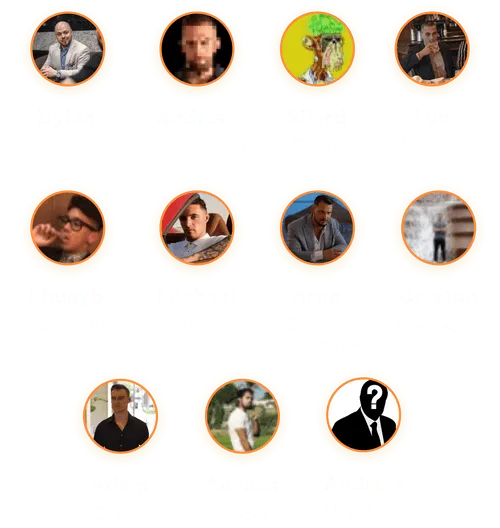
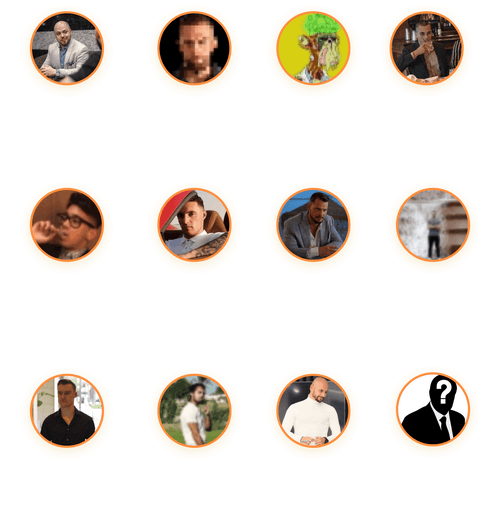
Updated new skills card

diff --git a/index.html b/index.html
@@ -1,4 +1,4 @@
-<!DOCTYPE html><!--  Last Published: Wed Jun 07 2023 19:41:06 GMT+0000 (Coordinated Universal Time)  -->
+<!DOCTYPE html><!--  Last Published: Thu Jun 08 2023 15:16:07 GMT+0000 (Coordinated Universal Time)  -->
 <html data-wf-page="64680f89ffc502a63b8e9d6e" data-wf-site="64680f89ffc502a63b8e9d79">
 <head>
   <meta charset="utf-8">
@@ -19,17 +19,16 @@
   <style>@media (min-width:992px) {html.w-mod-js:not(.w-mod-ix) [data-w-id="18512e3c-39b7-8bab-abb9-2a5bc393fccc"] {opacity:0;}html.w-mod-js:not(.w-mod-ix) [data-w-id="945462b5-1a4d-e19c-20e4-a08d8ec7f4ef"] {opacity:0;}html.w-mod-js:not(.w-mod-ix) [data-w-id="31d968b6-9a69-3ba9-d6d8-b110b56b07cc"] {opacity:0;}html.w-mod-js:not(.w-mod-ix) [data-w-id="12296b64-3bdd-ae1d-ec60-e9494776b848"] {opacity:0;}html.w-mod-js:not(.w-mod-ix) [data-w-id="33ba81fa-bc93-d521-ee83-b04d6ccc260a"] {opacity:0;}html.w-mod-js:not(.w-mod-ix) [data-w-id="00f6bff1-7e71-fcb1-a781-228aad06e1a4"] {opacity:0;}html.w-mod-js:not(.w-mod-ix) [data-w-id="7951d949-64a1-f551-5bcc-421f48fbfda3"] {opacity:0;}}@media (max-width:991px) and (min-width:768px) {html.w-mod-js:not(.w-mod-ix) [data-w-id="18512e3c-39b7-8bab-abb9-2a5bc393fccc"] {opacity:0;}html.w-mod-js:not(.w-mod-ix) [data-w-id="945462b5-1a4d-e19c-20e4-a08d8ec7f4ef"] {opacity:0;}html.w-mod-js:not(.w-mod-ix) [data-w-id="31d968b6-9a69-3ba9-d6d8-b110b56b07cc"] {opacity:0;}html.w-mod-js:not(.w-mod-ix) [data-w-id="12296b64-3bdd-ae1d-ec60-e9494776b848"] {opacity:0;}html.w-mod-js:not(.w-mod-ix) [data-w-id="33ba81fa-bc93-d521-ee83-b04d6ccc260a"] {opacity:0;}html.w-mod-js:not(.w-mod-ix) [data-w-id="00f6bff1-7e71-fcb1-a781-228aad06e1a4"] {opacity:0;}html.w-mod-js:not(.w-mod-ix) [data-w-id="7951d949-64a1-f551-5bcc-421f48fbfda3"] {opacity:0;}}</style>
   <script type="text/javascript">!function(o,c){var n=c.documentElement,t=" w-mod-";n.className+=t+"js",("ontouchstart"in o||o.DocumentTouch&&c instanceof DocumentTouch)&&(n.className+=t+"touch")}(window,document);</script>
   <link href="images/favicon.png" rel="shortcut icon" type="image/x-icon">
-  <link href="images/webclip.png" rel="apple-touch-icon"><!--  [Attributes by Finsweet] CMS Load  -->
+  <link href="images/webclip.png" rel="apple-touch-icon">
   <script async="" src="https://cdn.jsdelivr.net/npm/@finsweet/attributes-cmsload@1/cmsload.js"></script>
-  <script src="https://cdn.jsdelivr.net/npm/alertifyjs@1.13.1/build/alertify.min.js"></script><link rel="stylesheet" href="https://cdn.jsdelivr.net/npm/alertifyjs@1.13.1/build/css/alertify.min.css"/><link rel="stylesheet" href="https://cdn.jsdelivr.net/npm/alertifyjs@1.13.1/build/css/themes/default.min.css"/>
-
+  <script src="https://cdn.jsdelivr.net/npm/alertifyjs@1.13.1/build/alertify.min.js"></script>
+  <link rel="stylesheet" href="https://cdn.jsdelivr.net/npm/alertifyjs@1.13.1/build/css/alertify.min.css">
+  <link rel="stylesheet" href="https://cdn.jsdelivr.net/npm/alertifyjs@1.13.1/build/css/themes/default.min.css">
   <script>(function(w,d,s,l,i){w[l]=w[l]||[];w[l].push({'gtm.start':
     new Date().getTime(),event:'gtm.js'});var f=d.getElementsByTagName(s)[0],
     j=d.createElement(s),dl=l!='dataLayer'?'&l='+l:'';j.async=true;j.src=
     'https://www.googletagmanager.com/gtm.js?id='+i+dl;f.parentNode.insertBefore(j,f);
     })(window,document,'script','dataLayer','GTM-THPMNPT');</script>
-      <!--  End Google Tag Manager  -->
-      <!--  Hotjar Tracking Code for https://jointherealworld.com  -->
       <script>
         (function(h,o,t,j,a,r){
             h.hj=h.hj||function(){(h.hj.q=h.hj.q||[]).push(arguments)};
@@ -40,8 +39,62 @@
             a.appendChild(r);
         })(window,document,'https://static.hotjar.com/c/hotjar-','.js?sv=');
     </script>
-
-
+  <style>
+.alertify-notifier .ajs-message.ajs-visible {
+	padding: 0 !important;
+}
+.alertify-notifier .ajs-message {
+	background-color: transparent !important;
+	border: none !important;
+}
+.purchase-popup {
+	position: relative;
+	z-index: 999;
+	max-width: 80vw;
+	width: 500px;
+	padding: 10px 50px 10px 15px;
+	background-color: #fff;
+	border-radius: 0 15px 15px 0;
+	color: #000 !important;
+	display: flex;
+	flex-direction: column;
+	flex-wrap: nowrap;
+	justify-content: center;
+	align-items: center;
+	-webkit-box-shadow: 0px 0px 7px 0px rgba(0, 0, 0, 0.5);
+	-moz-box-shadow: 0px 0px 7px 0px rgba(0, 0, 0, 0.5);
+	box-shadow: 0px 0px 7px 0px rgba(0, 0, 0, 0.5);
+	align-content: center;
+}
+ .purchase-popup strong {
+   color: #000 !important;
+  }
+.purchase-popup svg {
+	position: absolute;
+	content: '';
+	top: 10px;
+	right: 10px;
+	width: 20px;
+	height: 20px;
+	cursor: pointer;
+}
+.purchase-popup img {
+	position: absolute;
+	content: '';
+	top: calc(50% - 35px);
+	right: -35px;
+	width: 70px;
+	height: 70px;
+}
+.purchase-popup p {
+	font-size: 16px;
+	line-height: 130%;
+	margin: 0;
+	color: #000;
+	text-align: start;
+}
+</style><!--  [Attributes by Finsweet] CMS Load  -->
+  <script async="" src="https://cdn.jsdelivr.net/npm/@finsweet/attributes-cmsload@1/cmsload.js"></script>
 </head>
 <body>
   <div class="page-wrapper">
@@ -469,7 +522,7 @@ margin: 0rem !important;
                     </div>
                   </div>
                   <div data-w-id="76b2387b-6228-1d21-ce20-f34260d630ab" class="layout352_item bottom">
-                    <div id="w-node-_76b2387b-6228-1d21-ce20-f34260d630ac-3b8e9d6e" class="layout352_left"><img src="images/professors.webp" loading="lazy" width="500" sizes="(max-width: 479px) 32px, (max-width: 767px) 64px, (max-width: 991px) 44vw, 43vw" srcset="images/professors-p-500.png 500w, images/professors-p-800.png 800w, images/professors-p-1080.png 1080w, images/professors-p-1600.png 1600w, images/professors-p-2000.png 2000w, images/professors-p-2600.png 2600w, images/professors.webp 2772w" alt=""></div>
+                    <div id="w-node-_76b2387b-6228-1d21-ce20-f34260d630ac-3b8e9d6e" class="layout352_left"><img src="images/professors.png" loading="lazy" width="500" sizes="(max-width: 479px) 32px, (max-width: 767px) 64px, (max-width: 991px) 44vw, 43vw" srcset="images/professors.png 500w, images/professors.png 800w, images/professors.png 1404w" alt="Professors profile pictures with their names and Campus"></div>
                     <div id="w-node-_76b2387b-6228-1d21-ce20-f34260d630af-3b8e9d6e" class="layout352_centre">
                       <div class="layout352_circle"></div>
                     </div>
@@ -613,15 +666,26 @@ margin: 0rem !important;
                       </div>
                       <div class="margin-top margin-medium">
                         <div class="card-icon_wrapper">
-                          <div class="rw-card_icon-item left"><img src="images/Vector.svg" loading="lazy" alt="">
-                            <div class="text-size-medium text-weight-bold ai">Fitness</div>
+                          <div class="div-block-13">
+                            <div class="rw-card_icon-item left"><img src="images/Vector.svg" loading="lazy" alt="" class="image-6">
+                              <div class="text-size-medium text-weight-bold ai"><strong>Fitness</strong></div>
+                            </div>
+                            <div class="text-block-3"><span class="gold">New Campus</span></div>
                           </div>
-                          <div class="rw-card_icon-item right"><img src="images/Group.svg" loading="lazy" alt="">
-                            <div class="text-size-medium text-weight-bold ai">Artificial Intelligence</div>
+                          <div class="div-block-14">
+                            <div class="rw-card_icon-item right"><img src="images/Group.svg" loading="lazy" alt="" class="image-7">
+                              <div class="text-size-medium text-weight-bold ai"><strong>Artificial Intelligence</strong></div>
+                            </div>
+                            <div>
+                              <div class="text-block-3">Integrated in all Campuses</div>
+                            </div>
                           </div>
                         </div>
                       </div>
-                      <div class="margin-top margin-medium align-center"><img src="images/trw-planet.webp" loading="lazy" alt=""></div>
+                      <div class="div-block-15">
+                        <div class="text-block-3"><strong class="bold-text">Coming Soon</strong>: Social Media Marketing</div>
+                      </div>
+                      <div class="margin-top margin-medium align-center"><img src="images/trw-planet.webp" loading="lazy" alt="" class="planet"></div>
                     </div>
                     <div id="w-node-d80335e5-a404-0a00-b25c-f38b7bc0ade7-3b8e9d6e" class="bg-blur_learn"></div>
                   </div>
@@ -3903,7 +3967,19 @@ Webflow.push(function () {
     });
   </script>
   <script>
-$('head').append("<style>.alertify-notifier .ajs-message.ajs-visible {\n   padding: 0 !important;\n}\n .alertify-notifier .ajs-message{\n   background-color: transparent !important;\n   border:none !important;\n}\n .purchase-popup{\n   position: relative;\n   z-index: 999;\n   max-width: 80vw;\n   width: 500px;\n   padding: 10px 50px 10px 15px;\n   background-color: #fff;\n   border-radius: 0 15px 15px 0;\n   color: #000;\n   display: flex;\n   flex-direction: column;\n   flex-wrap: nowrap;\n   justify-content: center;\n   align-items: center;\n   -webkit-box-shadow: 0px 0px 7px 0px rgba(0,0,0,0.5);\n   -moz-box-shadow: 0px 0px 7px 0px rgba(0,0,0,0.5);\n   box-shadow: 0px 0px 7px 0px rgba(0,0,0,0.5);\n   align-content: center;\n}\n .purchase-popup svg{\n   position: absolute;\n   content: '';\n   top: 10px;\n   right: 10px;\n   width: 20px;\n   height: 20px;\n   cursor: pointer;\n}\n .purchase-popup img{\n   position: absolute;\n   content: '';\n   top: calc(50% - 35px);\n   right: -35px;\n   width: 70px;\n   height: 70px;\n}\n .purchase-popup p{\n   font-size: 16px;\n   line-height: 130%;\n   margin:0;\n   color:#000;\n   text-align:start;\n}\n</style>");
+    window.intercomSettings = {
+      api_base: "https://api-iam.intercom.io",
+      app_id: "lnixqwsm"
+    };
+  </script>
+  <script>
+    // We pre-filled your app ID in the widget URL: 'https://widget.intercom.io/widget/lnixqwsm'
+    (function () { var w = window; var ic = w.Intercom; if (typeof ic === "function") { ic('reattach_activator'); ic('update', w.intercomSettings); } else { var d = document; var i = function () { i.c(arguments); }; i.q = []; i.c = function (args) { i.q.push(args); }; w.Intercom = i; var l = function () { var s = d.createElement('script'); s.type = 'text/javascript'; s.async = true; s.src = 'https://widget.intercom.io/widget/lnixqwsm'; var x = d.getElementsByTagName('script')[0]; x.parentNode.insertBefore(s, x); }; if (document.readyState === 'complete') { l(); } else if (w.attachEvent) { w.attachEvent('onload', l); } else { w.addEventListener('load', l, false); } } })();
+    setTimeout(function () {   
+      Intercom('showNewMessage');
+    }, 3000);
+ </script>
+  <script>
 const source = new EventSource('https://secure.jointherealworld.com/api/purchases');
 source.addEventListener('purchase', purchaseEvent => {
   const data = JSON.parse(purchaseEvent.data);
@@ -3928,8 +4004,7 @@ function abbreviateName(name){
   }
   return name.trim();
 }
-</script>
-  <!-- Globe -->
+</script> <!--  Globe  -->
   <script>
 $(".span-wrapper").each(function (index) {
   let relatedEl = $(".span-element").eq(index);

diff --git a/css/v2/therealworld-site.css b/css/v2/therealworld-site.css
@@ -102,10 +102,6 @@
   display: block;
 }
 
-.purchase-popup strong{
-  color: #000 !important;
-}
-
 body {
   color: #fff;
   background-color: #0b0e13;
@@ -1753,11 +1749,13 @@ figcaption {
 }
 
 .rw-card_icon-item {
-  width: 50%;
+  width: 100%;
+  height: 50px;
   grid-column-gap: .625rem;
   grid-row-gap: .625rem;
   justify-content: flex-start;
   align-items: center;
+  margin-bottom: 5px;
   display: flex;
 }
 
@@ -3113,6 +3111,49 @@ figcaption {
   position: relative;
 }
 
+.div-block-13 {
+  width: 40%;
+  border-right: 1px solid #757575;
+  flex-direction: column;
+  justify-content: center;
+  align-items: center;
+  display: flex;
+}
+
+.div-block-14 {
+  flex-direction: column;
+  flex: 1;
+  justify-content: center;
+  align-items: center;
+  display: flex;
+}
+
+.gold {
+  color: #ffbb38;
+}
+
+.text-block-3 {
+  color: rgba(255, 255, 255, .74);
+  font-size: 1.2rem;
+}
+
+.div-block-15 {
+  flex-direction: column;
+  justify-content: center;
+  align-items: center;
+  margin-top: 40px;
+  margin-bottom: -10px;
+  display: flex;
+}
+
+.planet {
+  max-width: 220px;
+}
+
+.bold-text {
+  color: rgba(255, 255, 255, .74);
+}
+
 @media screen and (max-width: 991px) {
   h2 {
     text-align: center;
@@ -3764,6 +3805,17 @@ figcaption {
     padding-right: 1.5rem;
   }
 
+  .card-icon_wrapper {
+    flex-direction: row;
+    align-items: stretch;
+  }
+
+  .rw-card_icon-item.left, .rw-card_icon-item.right {
+    height: auto;
+    flex-direction: column;
+    flex: 1;
+  }
+
   .rw-reviews_image-wrapper {
     column-count: 2;
   }
@@ -3909,6 +3961,15 @@ figcaption {
   .footer_component-grid-2 {
     grid-template-rows: auto auto;
     grid-template-columns: 1fr;
+  }
+
+  .div-block-13 {
+    width: 33%;
+    align-self: stretch;
+  }
+
+  .div-block-14 {
+    width: 100%;
   }
 }
 
@@ -4276,15 +4337,20 @@ figcaption {
     width: 2.25rem;
   }
 
-  .card-icon_wrapper {
-    grid-column-gap: 1.5rem;
-    grid-row-gap: 1.5rem;
-    flex-direction: column;
+  .rw-card_icon-item.left {
+    width: 100%;
+    grid-column-gap: 10px;
+    grid-row-gap: 10px;
+    flex: none;
+    justify-content: flex-start;
   }
 
-  .rw-card_icon-item.left, .rw-card_icon-item.right {
+  .rw-card_icon-item.right {
     width: 100%;
-    justify-content: center;
+    grid-column-gap: 10px;
+    grid-row-gap: 10px;
+    flex: 0 auto;
+    justify-content: flex-start;
   }
 
   .rw-reviews_image-wrapper {
@@ -4638,6 +4704,35 @@ figcaption {
     padding-left: 0;
     padding-right: 0;
     display: block;
+  }
+
+  .div-block-13 {
+    flex-direction: column;
+    justify-content: flex-start;
+    align-items: stretch;
+    margin-bottom: 0;
+    padding-right: 10px;
+  }
+
+  .div-block-14 {
+    justify-content: flex-start;
+    align-self: stretch;
+    padding-left: 10px;
+  }
+
+  .text-block-3 {
+    font-size: 1rem;
+  }
+
+  .image-6 {
+    width: 40px;
+    height: 40px;
+    object-fit: contain;
+  }
+
+  .image-7 {
+    height: 40px;
+    object-fit: contain;
   }
 }
 
